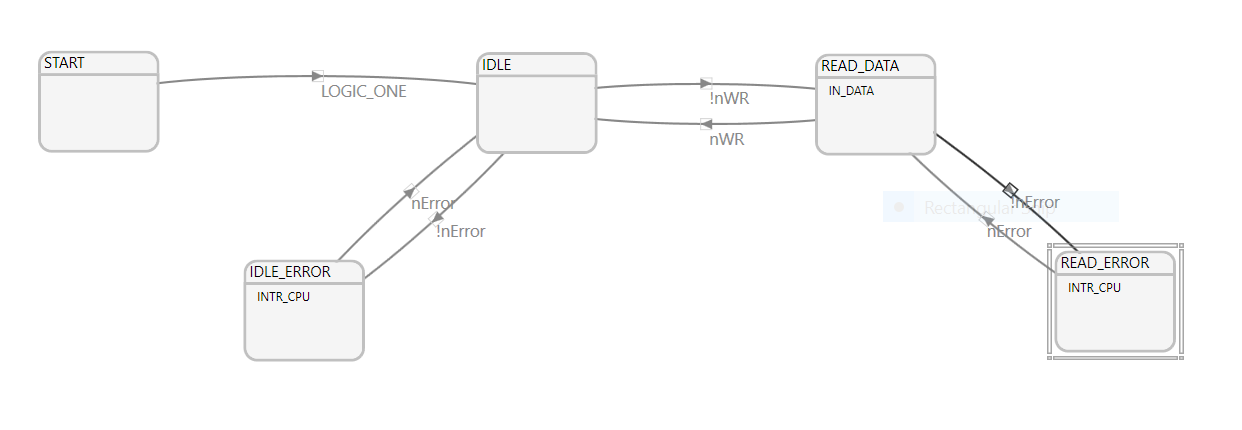
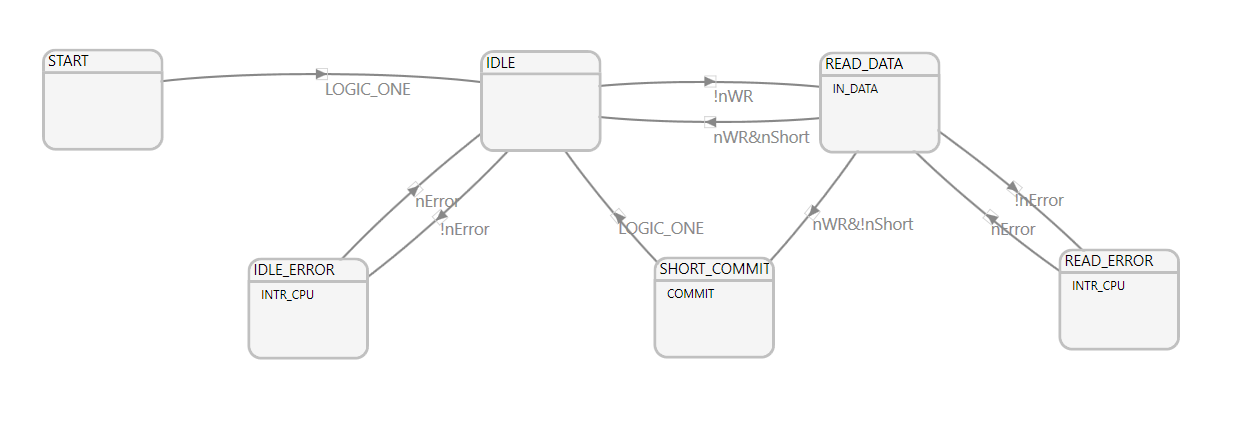
Modified GPIF state machine design and updated diagrams

diff --git a/firmware/FX3-Firmware/domesdayDuplicator/domesdayDuplicatorGpif.h b/firmware/FX3-Firmware/domesdayDuplicator/domesdayDuplicatorGpif.h
@@ -1,6 +1,6 @@
 /*
  * Project Name: DomesdayDuplicator.cyfx
- * Time : 11/24/2017 20:03:42
+ * Time : 11/25/2017 11:14:13
  * Device Type: FX3
  * Project Type: GPIF2
  *
@@ -21,7 +21,7 @@
 /* Summary
    Number of states in the state machine
  */
-#define CY_NUMBER_OF_STATES 5
+#define CY_NUMBER_OF_STATES 6
 
 /* Summary
    Mapping of user defined state names to state indices
@@ -31,6 +31,7 @@
 #define READ_DATA 2
 #define READ_ERROR 4
 #define IDLE_ERROR 3
+#define SHORT_COMMIT 5
 
 
 /* Summary
@@ -43,7 +44,7 @@
    Transition function values used in the state machine.
  */
 uint16_t CyFxGpifTransition[]  = {
-    0x0000, 0x5555, 0xAAAA, 0x3333
+    0x0000, 0xAAAA, 0x3333, 0x5555, 0xFFFF
 };
 
 /* Summary
@@ -53,17 +54,23 @@ uint16_t CyFxGpifTransition[]  = {
    waveform table. 
  */
 CyU3PGpifWaveData CyFxGpifWavedata[]  = {
-    {{0x1E708001,0x00000106,0x80000000},{0x00000000,0x00000000,0x00000000}},
-    {{0x2E708002,0x20000006,0x80000000},{0x2E738403,0x00000000,0x80000100}},
-    {{0x1E708001,0x00000106,0x80000000},{0x2E738404,0x00000100,0x80000100}},
-    {{0x2E708002,0x20000006,0x80000000},{0x00000000,0x00000000,0x00000000}}
+    {{0x3E708001,0x00000104,0x80000000},{0x00000000,0x00000000,0x00000000}},
+    {{0x1E708002,0x20000004,0x80000000},{0x1E738403,0x00000000,0x80000100}},
+    {{0x4E739C05,0x00000000,0xC0100000},{0x1E738404,0x00000100,0x80000100}},
+    {{0x1E708002,0x20000004,0x80000000},{0x00000000,0x00000000,0x00000000}},
+    {{0x00000000,0x00000000,0x00000000},{0x00000000,0x00000000,0x00000000}},
+    {{0x3E708001,0x00000104,0x80000000},{0x1E738404,0x00000100,0x80000100}}
 };
 
 /* Summary
    Table that maps state indices to the descriptor table indices.
  */
 uint8_t CyFxGpifWavedataPosition[]  = {
-    0,1,2,0,3
+    0,1,2,0,3,0,4,4,4,4,4,4,4,4,4,4,4,4,4,4,4,4,4,4,4,4,4,4,4,4,4,4,
+    4,4,4,4,4,4,4,4,4,4,4,4,4,4,4,4,4,4,4,4,4,4,4,4,4,4,4,4,4,4,4,4,
+    4,4,4,4,4,4,4,4,4,4,4,4,4,4,4,4,4,4,4,4,4,4,4,4,4,4,4,4,4,4,4,4,
+    4,4,4,4,4,4,4,4,4,4,4,4,4,4,4,4,4,4,4,4,4,4,4,4,4,4,4,4,4,4,4,4,
+    0,1,5,0,3,0
 };
 
 /* Summary
@@ -72,7 +79,7 @@ uint8_t CyFxGpifWavedataPosition[]  = {
 uint32_t CyFxGpifRegValue[]  = {
     0x80008300,  /*  CY_U3P_PIB_GPIF_CONFIG */
     0x00000067,  /*  CY_U3P_PIB_GPIF_BUS_CONFIG */
-    0x00000000,  /*  CY_U3P_PIB_GPIF_BUS_CONFIG2 */
+    0x06000001,  /*  CY_U3P_PIB_GPIF_BUS_CONFIG2 */
     0x00000046,  /*  CY_U3P_PIB_GPIF_AD_CONFIG */
     0x00000000,  /*  CY_U3P_PIB_GPIF_STATUS */
     0x00000000,  /*  CY_U3P_PIB_GPIF_INTR */
@@ -80,7 +87,7 @@ uint32_t CyFxGpifRegValue[]  = {
     0x00000082,  /*  CY_U3P_PIB_GPIF_SERIAL_IN_CONFIG */
     0x00000782,  /*  CY_U3P_PIB_GPIF_SERIAL_OUT_CONFIG */
     0x00100454,  /*  CY_U3P_PIB_GPIF_CTRL_BUS_DIRECTION */
-    0x0000FFC0,  /*  CY_U3P_PIB_GPIF_CTRL_BUS_DEFAULT */
+    0x0000FF80,  /*  CY_U3P_PIB_GPIF_CTRL_BUS_DEFAULT */
     0x0000000C,  /*  CY_U3P_PIB_GPIF_CTRL_BUS_POLARITY */
     0x00000000,  /*  CY_U3P_PIB_GPIF_CTRL_BUS_TOGGLE */
     0x00000000,  /*  CY_U3P_PIB_GPIF_CTRL_BUS_SELECT */
